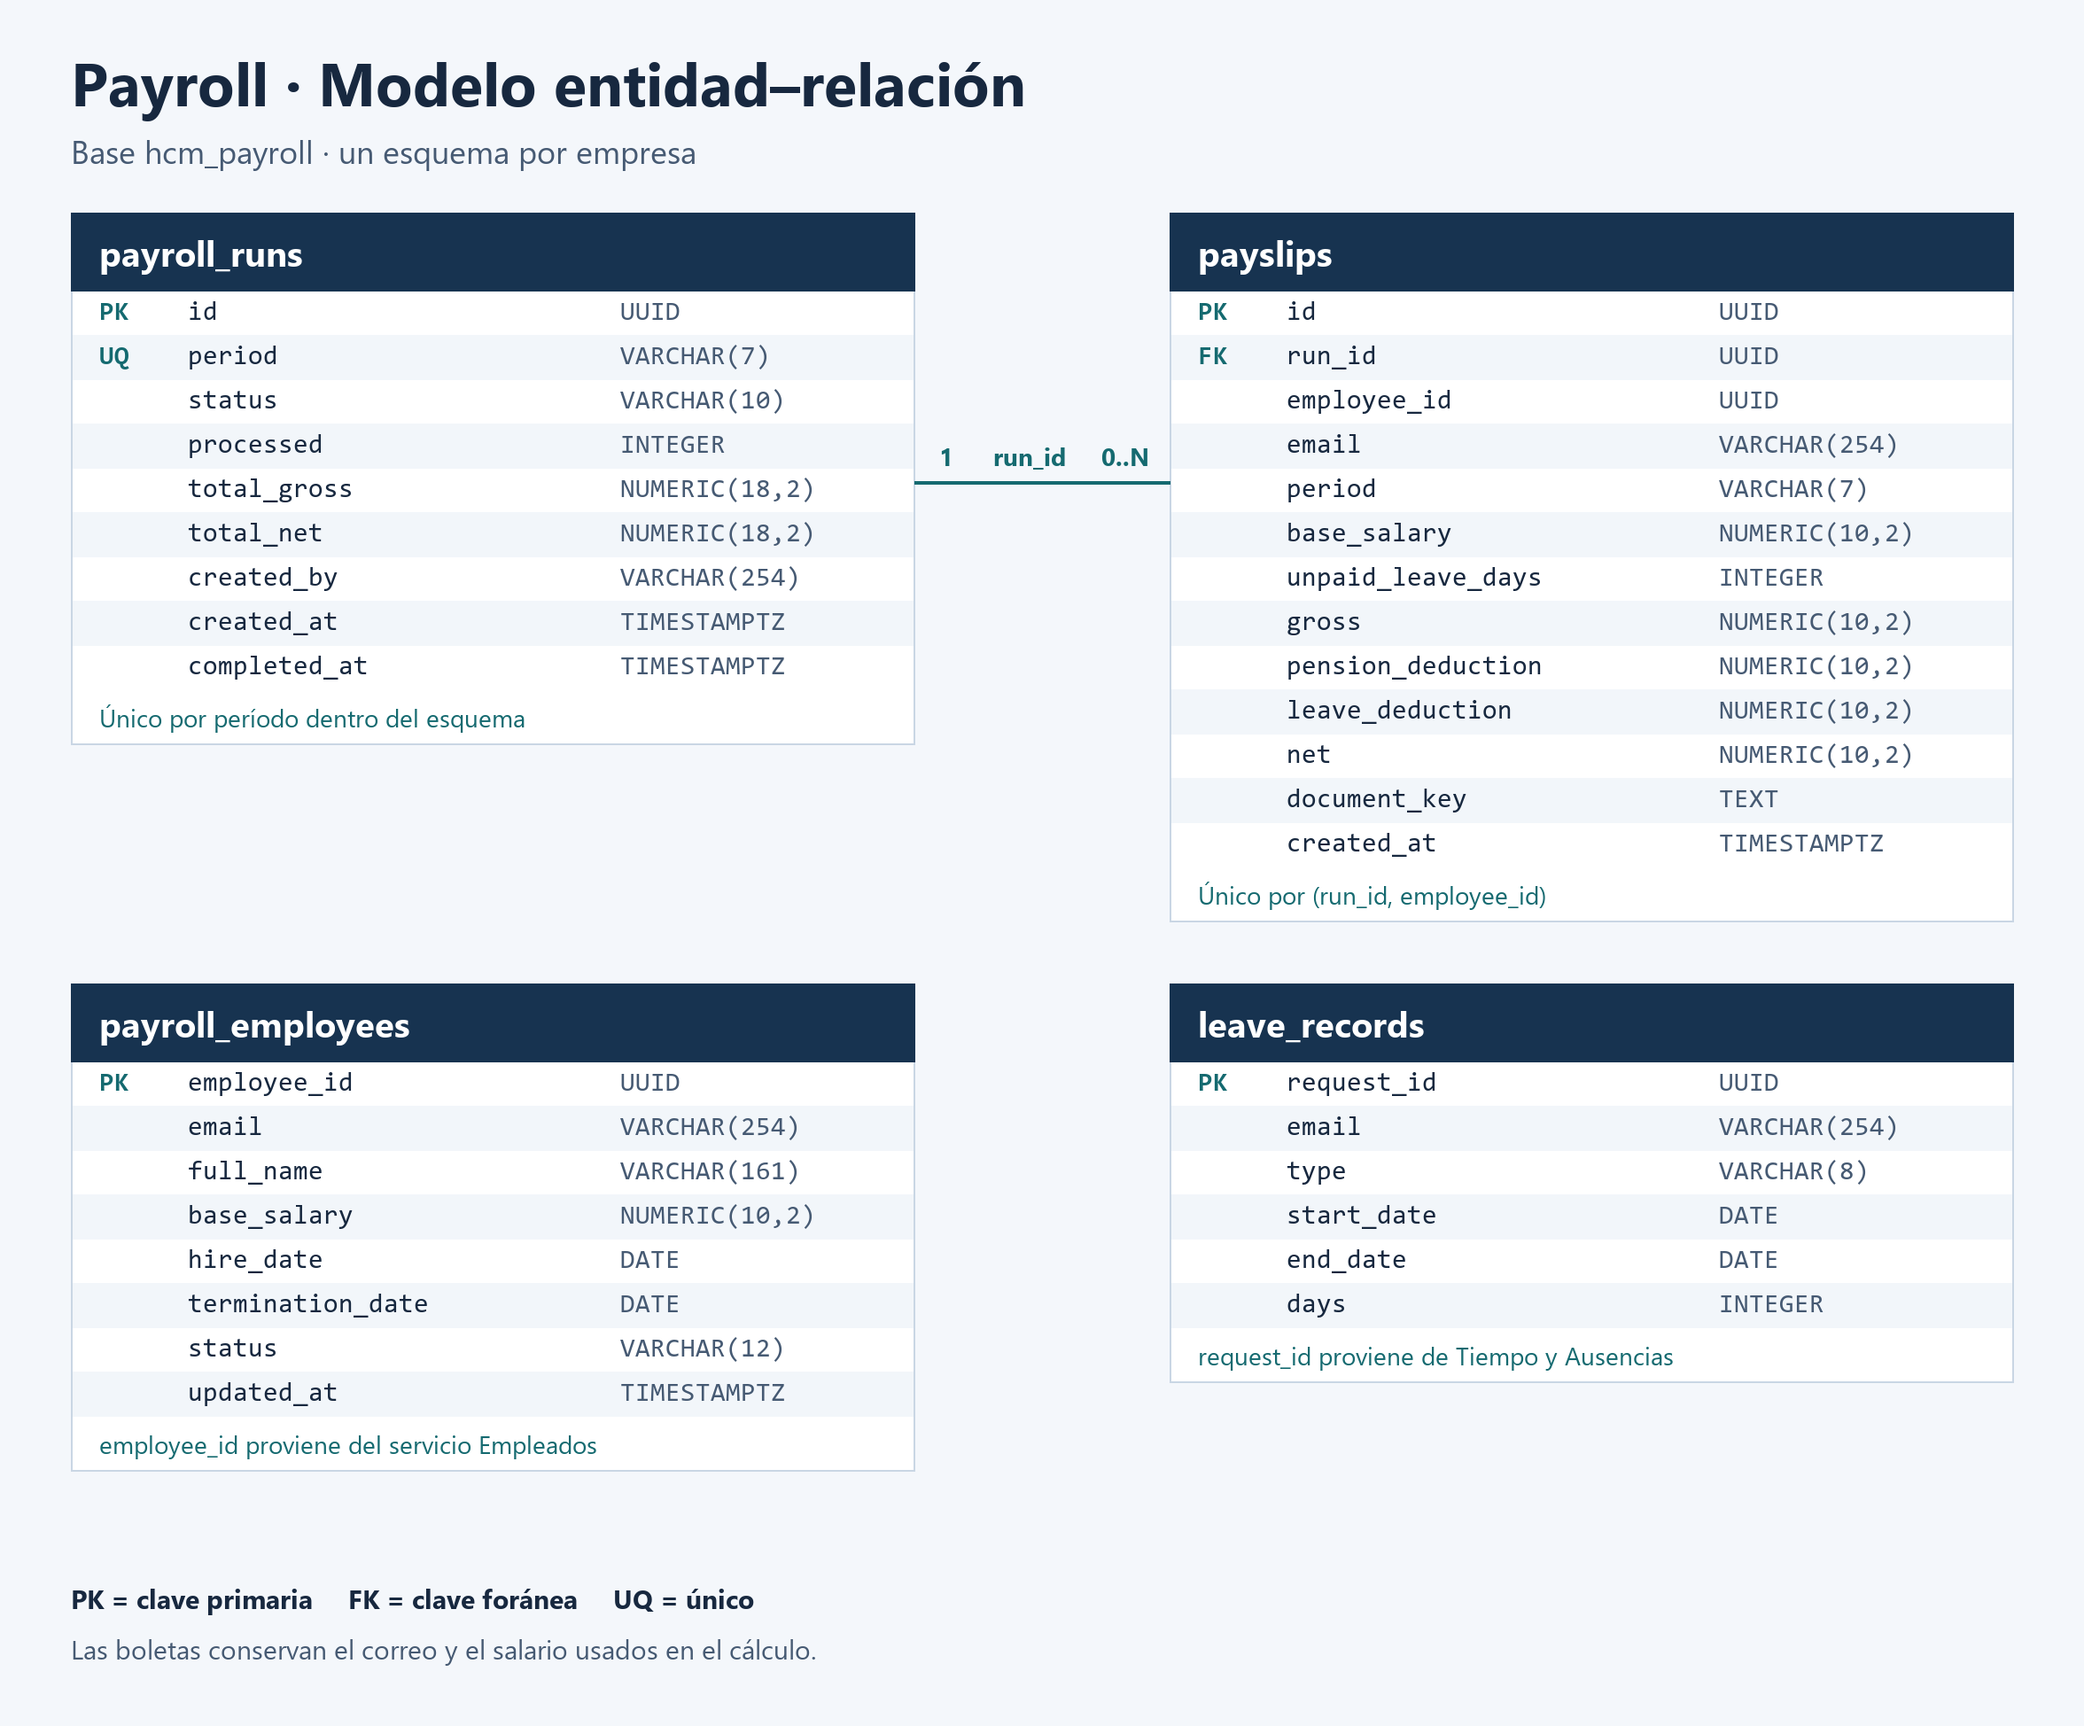
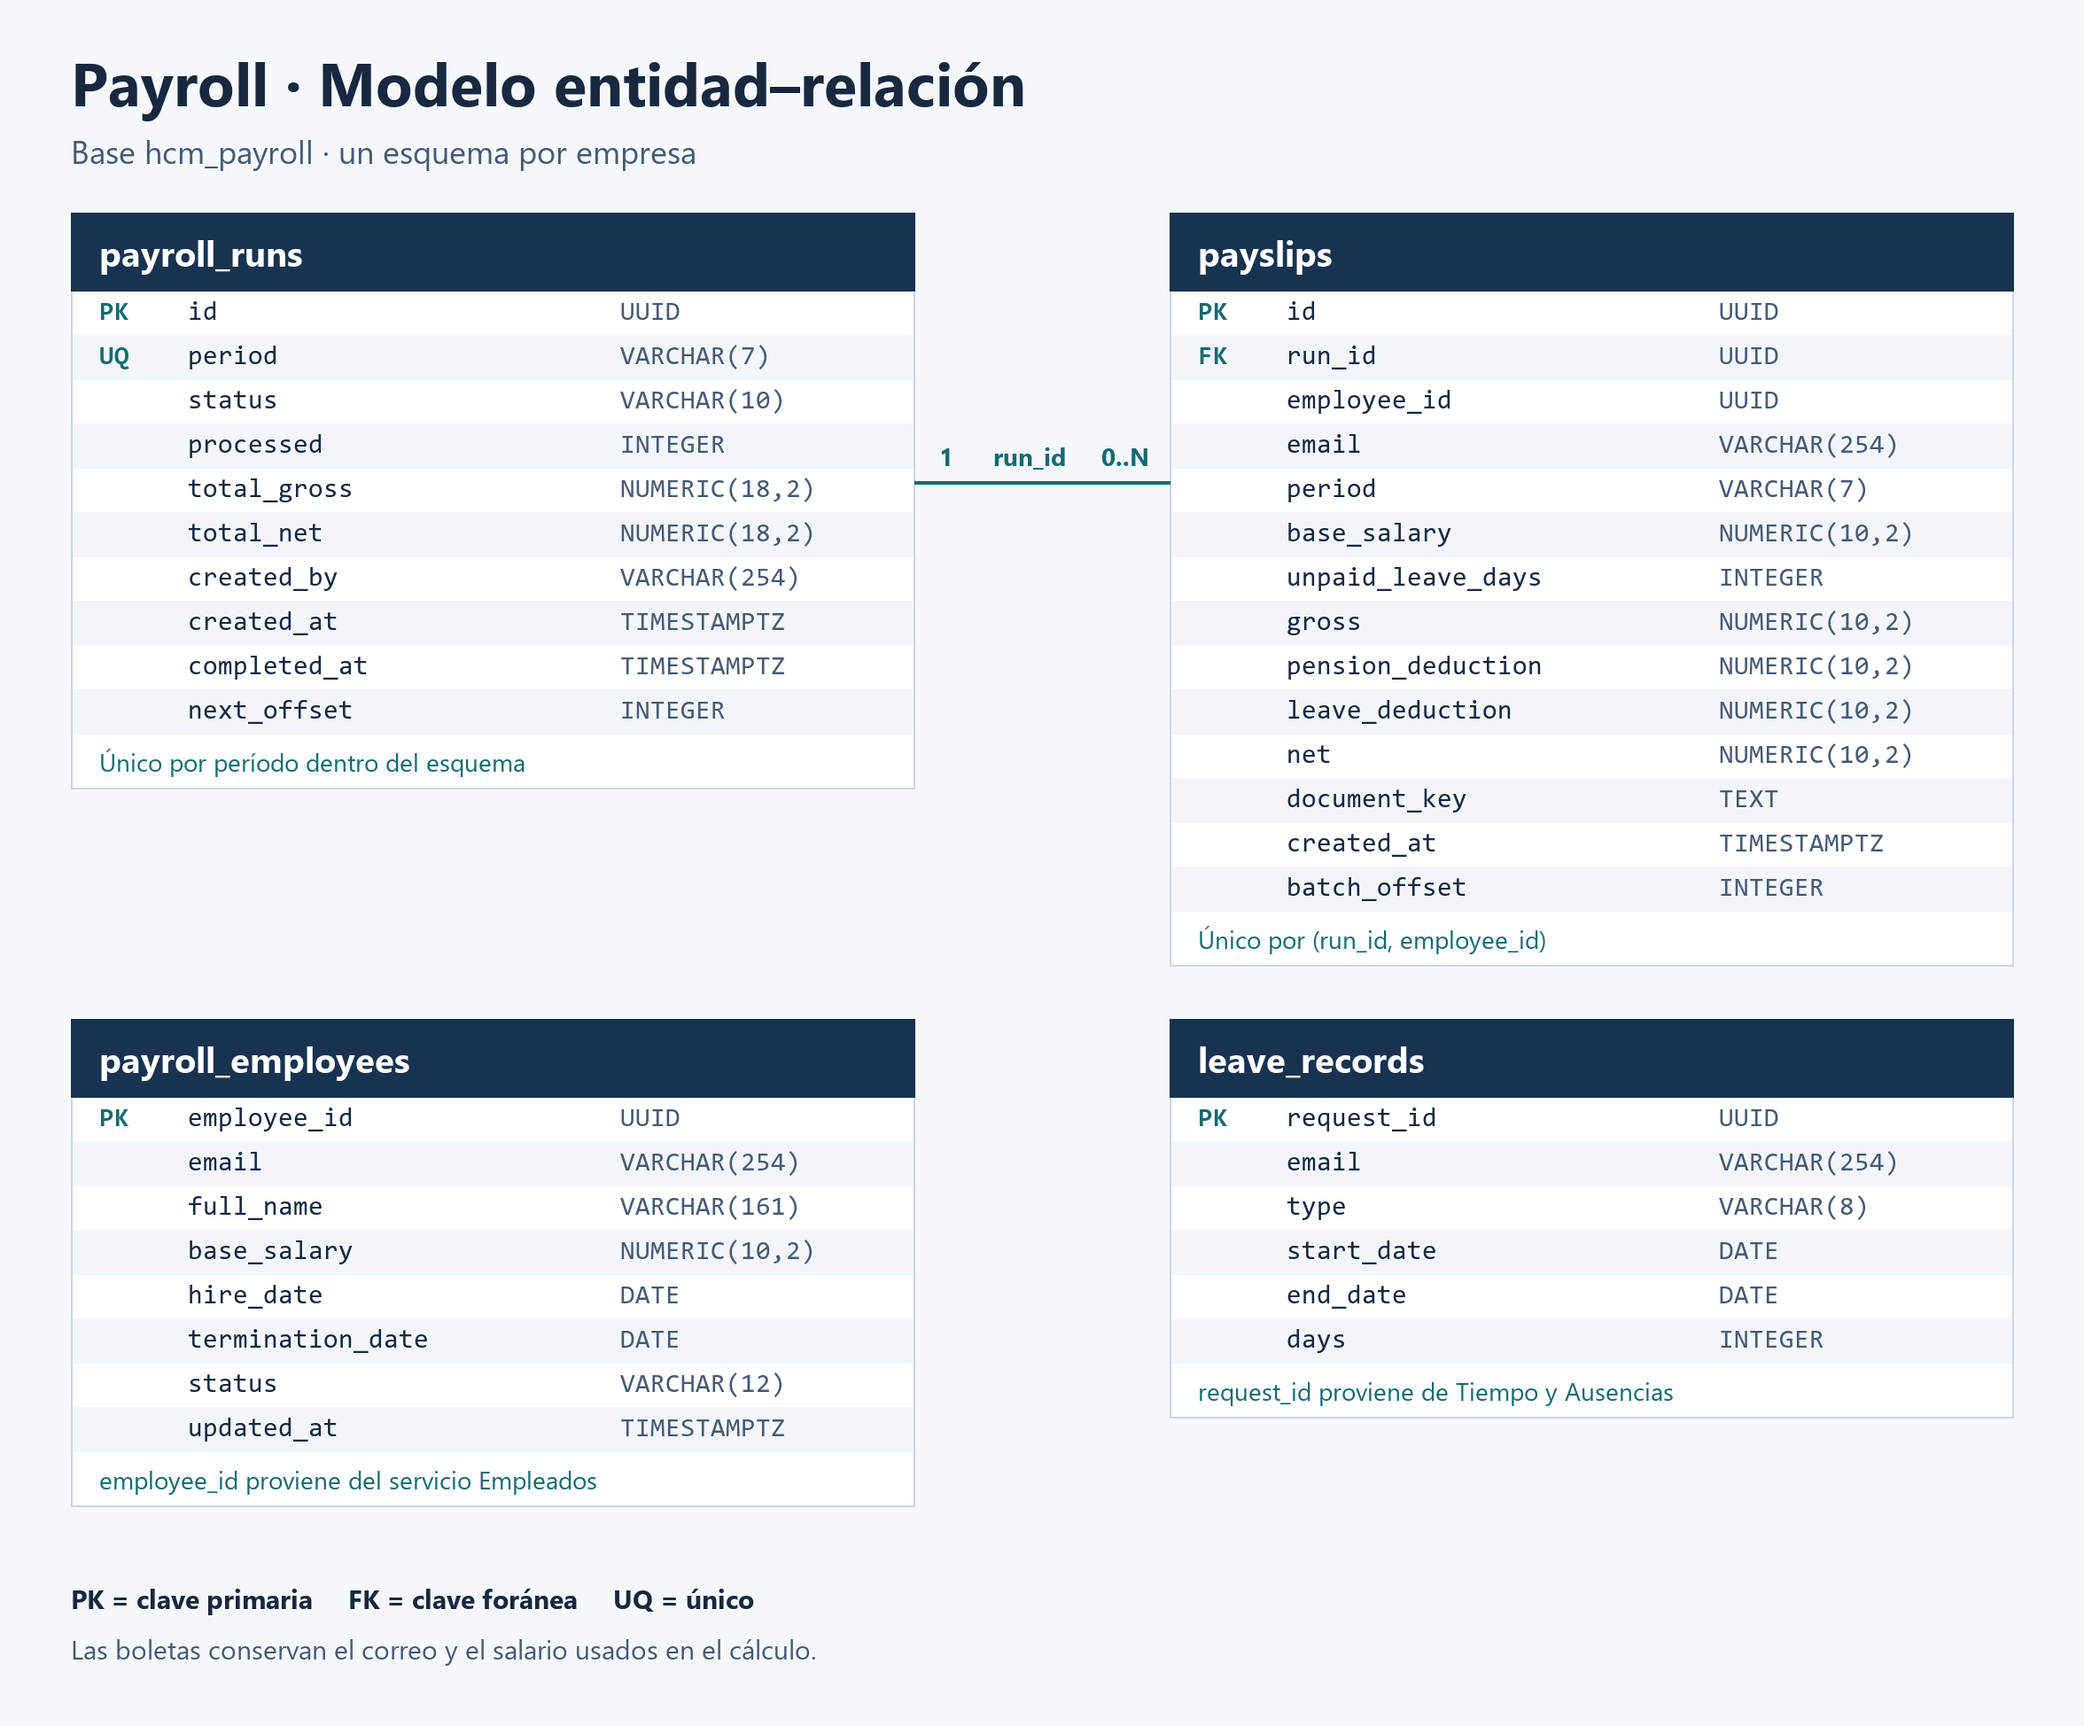
Integra Payroll al despliegue y al bootstrap

diff --git a/scripts/bootstrap.py b/scripts/bootstrap.py
@@ -1,11 +1,9 @@
 """Deja la plataforma lista después del primer deploy. Todos los pasos son idempotentes.
 
   1. Crea en la RDS las bases de employees y payroll (si no existen).
-  2. Crea los tenants de TENANTS con POST /tenants de identity, cada uno con su admin
-     admin@<tenant>.com y la contraseña SEED_ADMIN_PASSWORD.
-  3. Verifica que cada tenant tenga su schema en la base de employees. Lo crea el evento
-     TenantCreated; si no aparece a tiempo (p. ej. el tenant ya existía antes de desplegar
-     employees), aplica la migración directamente.
+  2. Aplica las migraciones de employees y payroll para cada tenant de TENANTS.
+  3. Crea los tenants en identity con su admin y la contraseña SEED_ADMIN_PASSWORD.
+  4. Copia a payroll los perfiles existentes de employees.
 
 Uso, desde la raíz del repo:
     python3 -m venv .venv && .venv/bin/pip install -r scripts/requirements.txt
@@ -15,7 +13,6 @@ import json
 import os
 import re
 import sys
-import time
 import urllib.error
 import urllib.request
 from pathlib import Path
@@ -28,9 +25,10 @@ ROOT = Path(__file__).resolve().parents[1]
 sys.path.insert(0, str(ROOT / "shared" / "python"))
 
 from common import db_pg  # noqa: E402
+from common.tenant import schema_name  # noqa: E402
 
 DB_NAME = re.compile(r"[a-z_][a-z0-9_]{0,62}")
-SCHEMA_WAIT_SECONDS = 60
+EMPLOYEE_PAGE_SIZE = 500
 
 
 def load_env(path: Path) -> None:
@@ -103,45 +101,84 @@ def create_tenant(identity_url: str, platform_key: str, tenant: str, password: s
         sys.exit(f"Error creando {tenant}: HTTP {exc.code} {exc.read().decode(errors='replace')}")
 
 
-def existing_schemas(host: str, port: int, database: str) -> set:
-    conn = connect(host, port, database)
-    try:
-        rows = conn.run("SELECT nspname FROM pg_namespace WHERE nspname LIKE 'tenant\\_%'")
-        return {row[0] for row in rows}
-    finally:
-        conn.close()
-
-
-def migration_sql() -> str:
-    files = sorted((ROOT / "services" / "employees" / "migrations").glob("*.sql"))
+def migration_sql(service: str) -> str:
+    directory = ROOT / "services" / service / "migrations"
+    files = sorted(directory.glob("*.sql"))
+    if not files:
+        raise RuntimeError(f"No hay migraciones en {directory}")
     return "\n;\n".join(f.read_text(encoding="utf-8") for f in files)
 
 
-def ensure_schemas(host: str, port: int, database: str, tenants: list) -> None:
-    expected = {f"tenant_{t}": t for t in tenants}
-    deadline = time.time() + SCHEMA_WAIT_SECONDS
-    missing = set(expected) - existing_schemas(host, port, database)
-    while missing and time.time() < deadline:
-        print(f"  esperando TenantCreated: {', '.join(sorted(missing))}")
-        time.sleep(5)
-        missing -= existing_schemas(host, port, database)
+def apply_migrations(service: str, database: str, tenants: list[str]) -> None:
+    sql = migration_sql(service)
+    for tenant in tenants:
+        db_pg.create_tenant_schema(tenant, sql, db_name=database)
+        print(f"  {database}.{schema_name(tenant)}: migrado")
 
-    if missing:
-        os.environ.update({"DB_HOST": host, "DB_PORT": str(port)})
-        sql = migration_sql()
-        for schema in sorted(missing):
-            db_pg.create_tenant_schema(expected[schema], sql, db_name=database)
-            print(f"  {schema}: creado directamente con la migración")
-    for schema in sorted(set(expected) - missing):
-        print(f"  {schema}: ok")
+
+def sync_payroll_employees(tenant: str, employees_db: str, payroll_db: str) -> int:
+    after = None
+    reviewed = 0
+    while True:
+        with db_pg.with_tenant(tenant, db_name=employees_db) as conn:
+            [page] = db_pg.query(conn, """
+                SELECT (array_agg(employee_id ORDER BY employee_id DESC))[1] AS last_id,
+                       CAST(jsonb_agg(snapshot) AS TEXT) AS payload,
+                       count(*) AS size
+                FROM (
+                    SELECT id AS employee_id, email, first_name || ' ' || last_name AS full_name,
+                           salary AS base_salary, hire_date, termination_date, status, updated_at
+                    FROM employees
+                    WHERE CAST(:after AS UUID) IS NULL OR id > :after
+                    ORDER BY id LIMIT :limit
+                ) snapshot
+                """, after=after, limit=EMPLOYEE_PAGE_SIZE)
+        if not page["size"]:
+            return reviewed
+
+        with db_pg.with_tenant(tenant, db_name=payroll_db) as conn:
+            conn.run("""
+                INSERT INTO payroll_employees (
+                    employee_id, email, full_name, base_salary, hire_date, termination_date, status, updated_at
+                )
+                SELECT employee_id, email, full_name, base_salary, hire_date, termination_date, status, updated_at
+                FROM jsonb_to_recordset(CAST(:payload AS JSONB)) AS employee(
+                    employee_id UUID, email TEXT, full_name TEXT, base_salary NUMERIC,
+                    hire_date DATE, termination_date DATE, status TEXT, updated_at TIMESTAMPTZ
+                )
+                ON CONFLICT (employee_id) DO UPDATE SET
+                    email = EXCLUDED.email,
+                    full_name = EXCLUDED.full_name,
+                    base_salary = EXCLUDED.base_salary,
+                    hire_date = EXCLUDED.hire_date,
+                    updated_at = EXCLUDED.updated_at
+                WHERE payroll_employees.updated_at < EXCLUDED.updated_at
+                """, payload=page["payload"])
+            # Termination is independent of the profile timestamp used for salary updates.
+            conn.run("""
+                UPDATE payroll_employees AS p
+                SET status = 'TERMINATED', termination_date = source.termination_date
+                FROM jsonb_to_recordset(CAST(:payload AS JSONB)) AS source(
+                    employee_id UUID, status TEXT, termination_date DATE
+                )
+                WHERE p.employee_id = source.employee_id AND source.status = 'TERMINATED'
+                  AND p.status <> 'TERMINATED'
+                """, payload=page["payload"])
+        after = page["last_id"]
+        reviewed += page["size"]
 
 
 def main() -> None:
     load_env(ROOT / ".env")
     stage = os.environ.get("STAGE", "dev")
     region = os.environ.get("AWS_REGION", "us-east-1")
-    tenants = [t.strip() for t in require("TENANTS").split(",") if t.strip()]
+    tenants = list(dict.fromkeys(t.strip() for t in require("TENANTS").split(",") if t.strip()))
+    if not tenants:
+        sys.exit("TENANTS debe incluir al menos una empresa")
+    for tenant in tenants:
+        schema_name(tenant)
     password = require("SEED_ADMIN_PASSWORD")
+    platform_key = require("PLATFORM_ADMIN_KEY")
     if len(password) < 8:
         sys.exit("SEED_ADMIN_PASSWORD debe tener al menos 8 caracteres")
 
@@ -152,17 +189,25 @@ def main() -> None:
     employees_db = os.environ.get("DB_EMPLOYEES_NAME", "hcm_employees")
     payroll_db = os.environ.get("DB_PAYROLL_NAME", "hcm_payroll")
 
-    print(f"1/3 Bases en {host}")
+    print(f"1/4 Bases en {host}")
     for name in (employees_db, payroll_db):
         ensure_database(host, port, name)
 
-    print(f"2/3 Tenants en {identity['ServiceEndpoint']}")
+    # Prepare schemas before creating tenants, which also publish TenantCreated.
+    print("2/4 Migraciones por tenant")
+    os.environ.update({"DB_HOST": host, "DB_PORT": str(port)})
+    for service, database in (("employees", employees_db), ("payroll", payroll_db)):
+        apply_migrations(service, database, tenants)
+
+    print(f"3/4 Tenants en {identity['ServiceEndpoint']}")
     for tenant in tenants:
-        status = create_tenant(identity["ServiceEndpoint"], require("PLATFORM_ADMIN_KEY"), tenant, password)
+        status = create_tenant(identity["ServiceEndpoint"], platform_key, tenant, password)
         print(f"  {tenant}: {status} (admin@{tenant}.com)")
 
-    print(f"3/3 Schemas en {employees_db}")
-    ensure_schemas(host, port, employees_db, tenants)
+    print("4/4 Empleados existentes en Payroll")
+    for tenant in tenants:
+        reviewed = sync_payroll_employees(tenant, employees_db, payroll_db)
+        print(f"  {tenant}: {reviewed} empleados revisados")
 
     print("\nListo. Inicia sesión con código de empresa = tenant, admin@<tenant>.com y SEED_ADMIN_PASSWORD.")
 

diff --git a/README.md b/README.md
@@ -12,7 +12,7 @@ Proyecto final CS2032 Cloud Computing (Grupo 2). Gestión de capital humano para
 | `employees` | RDS (`hcm_employees`, un schema por tenant) | `EmployeeCreated`, `EmployeeUpdated`, `EmployeeTerminated` | `TenantCreated`, `CandidateHired` |
 | `recruitment` | DynamoDB + S3 (CVs) | `CandidateHired` | — |
 | `time_leave` | DynamoDB (2 GSI) | `LeaveApproved` | `EmployeeCreated` |
-| `payroll` (en desarrollo) | RDS (`hcm_payroll`, un schema por tenant) | — | `TenantCreated`, `EmployeeCreated`, `EmployeeUpdated`, `EmployeeTerminated`, `LeaveApproved` |
+| `payroll` | RDS (`hcm_payroll`, un schema por tenant) y S3 (boletas PDF) | `PayrollRunRequested`, `PayslipGenerated` | `TenantCreated`, `EmployeeCreated`, `EmployeeUpdated`, `EmployeeTerminated`, `LeaveApproved`, `PayrollRunRequested` |
 | `frontend` | — | — | APIs de los 4 servicios |
 
 - Cada API Gateway valida el JWT con un Lambda Authorizer; el `tenantId` viaja en el token.
@@ -23,7 +23,7 @@ Proyecto final CS2032 Cloud Computing (Grupo 2). Gestión de capital humano para
 ## Estructura
 
 ```
-services/<servicio>/   serverless.yml, src/, tests/ (y migrations/ en employees)
+services/<servicio>/   serverless.yml, src/, tests/ (y migrations/ en employees y payroll)
 shared/python/common/  código compartido (se despliega como Lambda Layer)
 scripts/               deploy.sh y bootstrap.py
 frontend/              React + TypeScript + Vite
@@ -76,8 +76,8 @@ En la VM las variables `AWS_*` de credenciales quedan vacías.
 bash scripts/deploy.sh
 ```
 
-Despliega en orden `infra → employees → identity → recruitment → time_leave` (la RDS tarda ~10 min
-la primera vez) y al final imprime la URL de cada API. Para un solo servicio: `bash scripts/deploy.sh identity`.
+Despliega en orden `infra → employees → identity → recruitment → time_leave → payroll` (la RDS tarda ~10 min
+la primera vez) y al final imprime la URL de cada API. Para un solo servicio, usa `bash scripts/deploy.sh payroll`.
 
 ### 4. Bases y tenants
 
@@ -86,8 +86,14 @@ python3 -m venv .venv && .venv/bin/pip install -r scripts/requirements.txt
 .venv/bin/python scripts/bootstrap.py
 ```
 
-Crea las bases `hcm_employees` y `hcm_payroll`, los tenants `acme`, `globex` e `initech`
-(admin `admin@<tenant>.com`, contraseña `SEED_ADMIN_PASSWORD`) y verifica sus schemas. Se puede repetir sin riesgo.
+Crea las bases `hcm_employees` y `hcm_payroll`, aplica las migraciones de ambos servicios a los esquemas de
+`TENANTS` y registra en Identidad las empresas que falten. Cada empresa nueva queda con el administrador
+`admin@<tenant>.com` y la contraseña `SEED_ADMIN_PASSWORD`.
+
+Al integrar Payroll en un entorno existente, vuelve a ejecutar el bootstrap con los tenants que quieras
+incorporar. El script copia la ficha laboral vigente de Empleados a Payroll y conserva los perfiles que
+Payroll ya tenga más actualizados. Las ausencias aprobadas antes de desplegar Payroll requieren una carga
+histórica aparte si se van a usar en una corrida.
 
 ### 5. Frontend (Amplify)
 

diff --git a/convenciones.md b/convenciones.md
@@ -59,3 +59,5 @@ Sobre común (lo arma `common.events.publish`): `{eventId, eventType, tenantId, 
 | `EmployeeUpdated` | employees | payroll | `{employeeId, email, fullName, salary}` |
 | `EmployeeTerminated` | employees | identity, payroll | `{employeeId, email, terminationDate}` |
 | `LeaveApproved` | time_leave | payroll, notifications | `{requestId, email, type, startDate, endDate, days, approvedBy}` |
+| `PayrollRunRequested` | payroll | payroll | `{runId, period, offset}` |
+| `PayslipGenerated` | payroll | — | `{runId, payslipId, email, period, net}` |
